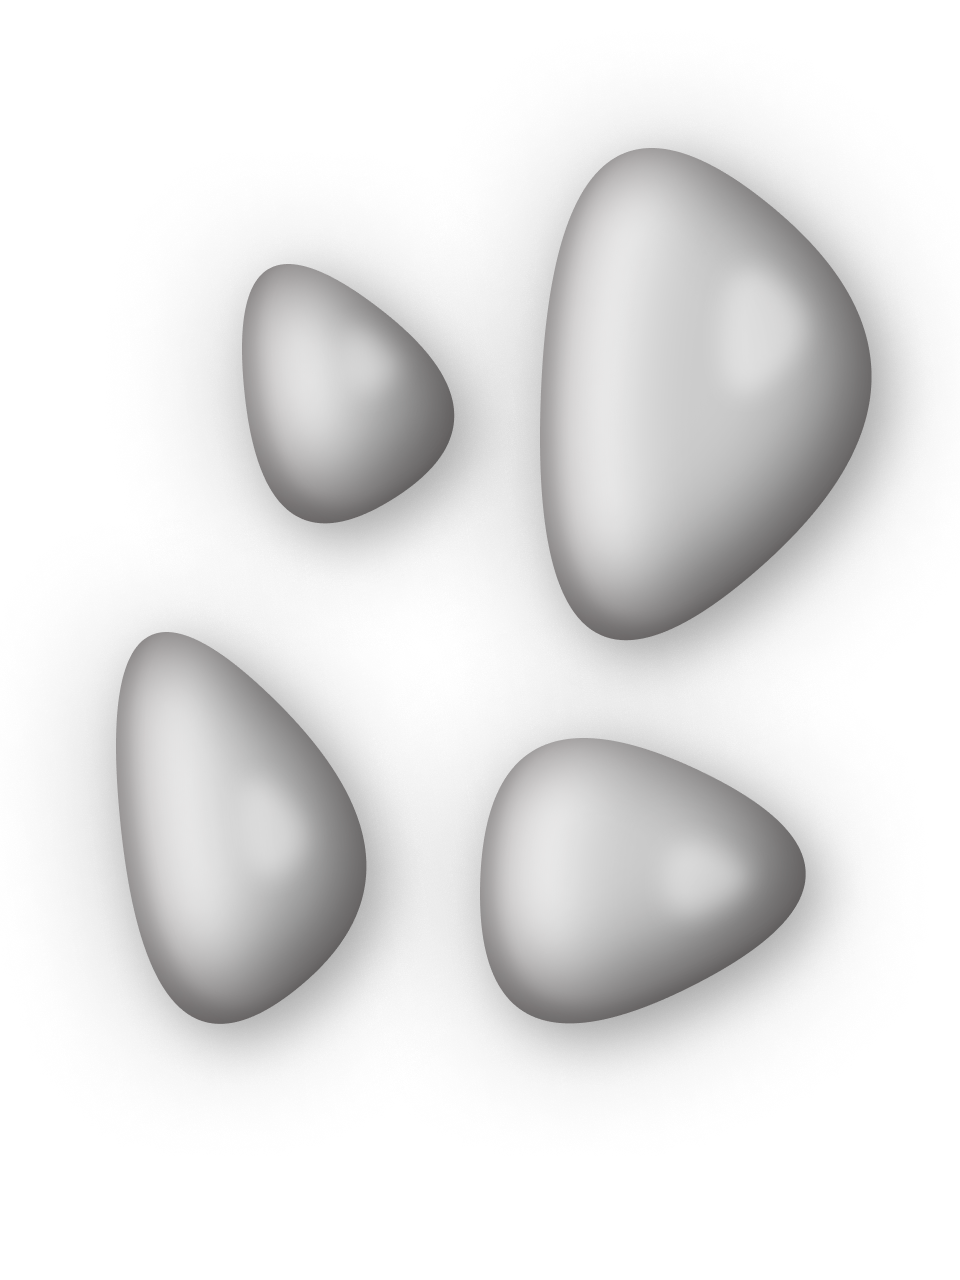
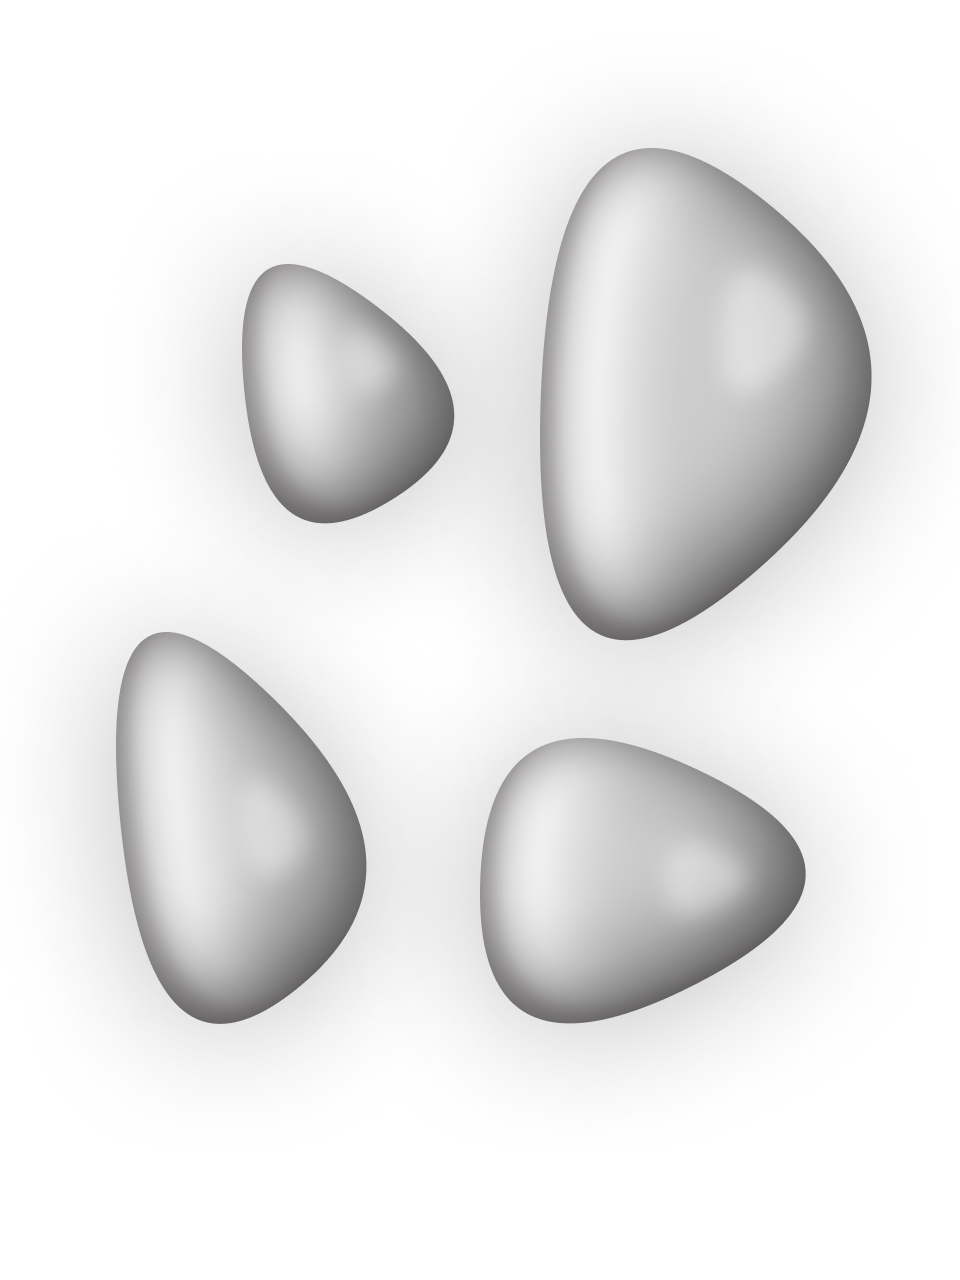
tweak shaders and values

diff --git a/src/routes/+page.svelte b/src/routes/+page.svelte
@@ -96,7 +96,7 @@
   ];
 
   let colorsFromPalette = false;
-  let circlesCount = 10;
+  let circlesCount = 15;
   let colorBlur = 10;
 
   $: stones = randomStones();
@@ -118,7 +118,7 @@
 
     // Or return random color
     const hue = Math.floor( Math.random() * 360 );
-    return `hsl(${hue}, 80%, 80%)`;
+    return `hsl(${hue}, 50%, 80%)`;
   }
 
   function randomPosition() {
@@ -152,6 +152,8 @@
   </p>
 </div>
 
+<img src="/favicon.png" alt="oye" class="mb-10" />
+
 {#key colorsFromPalette}
 
   <div class="canvas" on:click={refresh} style={`
@@ -160,6 +162,7 @@
     --stones-image: url(${stones.image});
   `}>
 
+    <div class="canvas__shader" />
 
     <!-- Stones mask definition -->
     <svg viewBox="0 0 480 640" fill="none" xmlns="http://www.w3.org/2000/svg">
@@ -208,14 +211,23 @@
     max-width: 100vw;
     aspect-ratio: 0.75;
     position: relative;
-    background: var(--stones-image) no-repeat center, linear-gradient(to bottom, var(--bg-gradient-start), var(--bg-gradient-end));
+    background: linear-gradient(to bottom, var(--bg-gradient-start), var(--bg-gradient-end));
+  }
+
+  .canvas__shader {
+    position: absolute;
+    inset: 0;
+    background: var(--stones-image) no-repeat center;
     background-size: contain;
+    opacity: 1;
+    z-index: 1;
   }
 
   svg {
     position: absolute;
     inset: 0;
     mix-blend-mode: color;
+    z-index: 2;
   }
 
   /* Blur circles and apply mask */
@@ -225,21 +237,23 @@
   } 
 
   /* Grain */
-  .canvas:before {
+  .canvas:after {
     content: '';
     position: absolute;
     inset: 0;
     background: url("/grain.png");
+    z-index: 3;
   }
 
   /* Saturate colors */
-  .canvas:after {
+  .canvas:before {
     content: '';
     position: absolute;
     inset: 0;
     background-color: lime;
     mix-blend-mode: saturation;
     opacity: 0.5;
+    z-index: 10;
   }
 
 </style>
